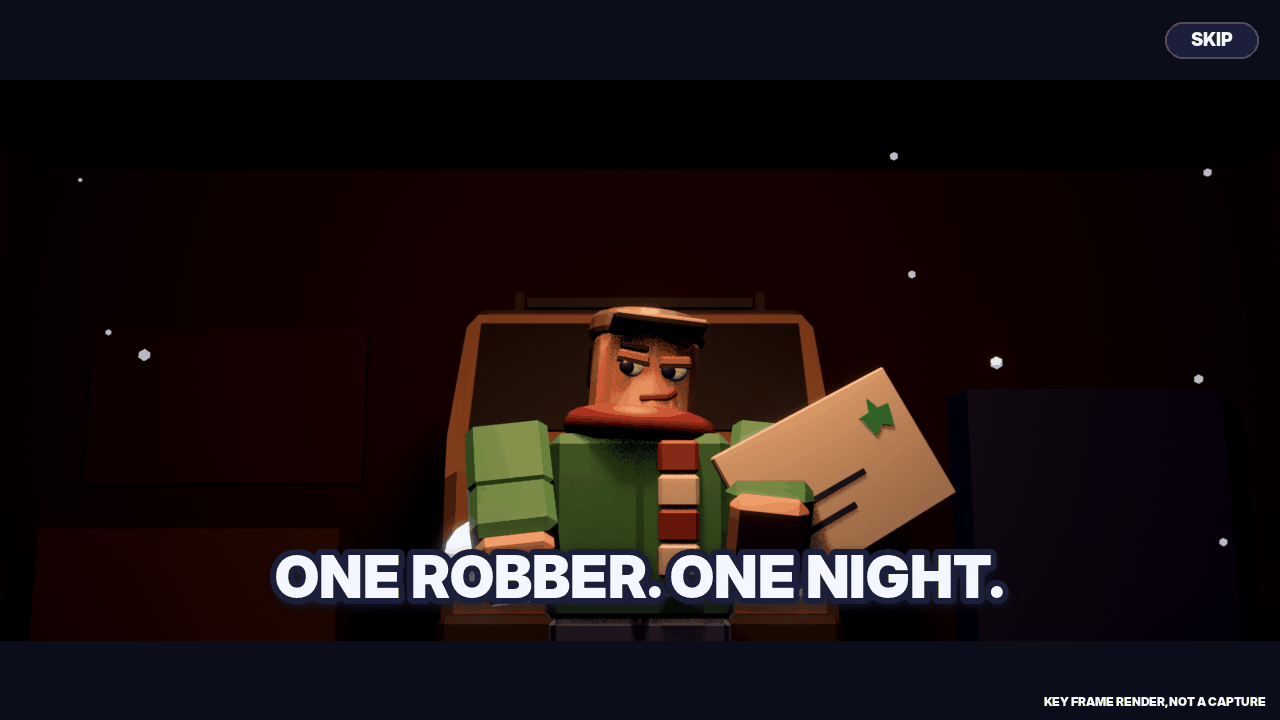
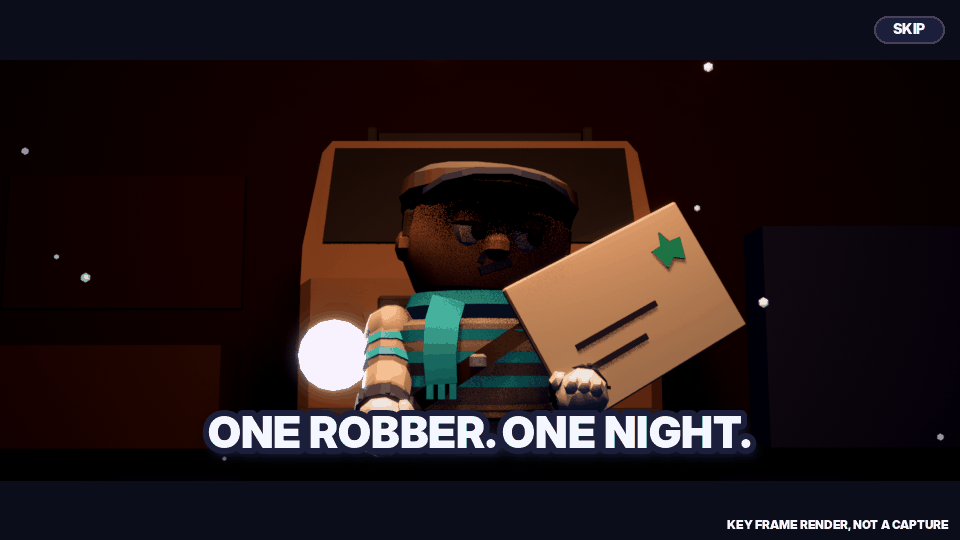
Intro: key frames use the real Rookie (kit FBX posed by the plan, default outfit); garage framing for a 4.6-stud Rookie, smaller letter, work lamp as face key
Claude-Session: https://claude.ai/code/session_01QMSuPfsKra1qjqHBWxnEoR

diff --git a/tools/blender/intro_shots.py b/tools/blender/intro_shots.py
@@ -7,7 +7,7 @@ StreetLamp, Xmas_Tree), lit with the shot's mood in Eevee.
 
 Writes docs/art/intro/shot_N.png (1920 x 1080 x scale; 256 colours + dither, like the marketing concepts) and
 docs/art/intro/contact_sheet.png. Each shot renders in its own Blender process. What is a stand-in here: the
-Rookie (MR.figure: flat cap, long scarf, smug side-eye) until the CHARACTER track's Rookie lands; the aurora
+Rookie is the CHARACTER track's (assets/fbx/Rookie*.fbx, posed by the plan's joint angles, default outfit); the aurora
 curtains, suction beams, headlight beams and snow are code effects in the game (Heist/Cinematic) drawn here as
 emissive meshes; the caption card, the letterbox and the title wordmark are 2D, as in the game.
 """
@@ -290,6 +290,77 @@ def hoardsworth(at, yaw, pose, rig):
         (place_m @ (C4 @ Matrix.Translation(mono))).translation
 
 
+
+ROOKIE_OUTFIT = ("Rookie_Cap_Flat", "Rookie_Scarf_Long", "Rookie_Stripes_Torso", "Rookie_Stripes_LeftArm",
+                 "Rookie_Stripes_RightArm", "Rookie_Gloves_Knit_Left", "Rookie_Gloves_Knit_Right")
+CREW_HUE = "#3DE8FF"     # the template's seat-1 hue (server Heist/Rookie)
+GLOVES = "#2A2D52"       # Config.Rookie.GLOVES.Gloves_Knit
+
+
+def rookie(at, yaw, pose, face="idle", clone=None, dim=0.0):
+    """The CHARACTER track's Rookie (assets/fbx/Rookie*.fbx, the kit manifest's joints and attach points) posed like
+    Heist/Cinematic poses the CharacterKit template: Motor6D.Transform = the IntroPlan joint angles; default outfit
+    (flat cap, long scarf, stripes, knit gloves) in the seat hue; `clone` = a clone's hue (emissive copy)."""
+    man = K.MANIFEST
+
+    def load(fbx, keep):
+        before = set(bpy.data.objects)
+        bpy.ops.import_scene.fbx(filepath=os.path.join(K.FBX, fbx + ".fbx"))
+        out = {}
+        for o in set(bpy.data.objects) - before:
+            base = o.name.split(".")[0]
+            if o.type == "MESH" and keep(base):
+                out[base] = o
+            else:
+                bpy.data.objects.remove(o, do_unlink=True)
+        return out
+
+    body = load("Rookie", lambda n: n != "Rookie_Face_Idle" or face == "idle")
+    extra = load("Rookie_Outfits", lambda n: n in ROOKIE_OUTFIT)
+    if face != "idle" and not clone:
+        extra.update(load("Rookie_Faces", lambda n: n == "Rookie_Face_" + face.capitalize()))
+    place_m = Matrix.Translation(rbv(at)) @ Matrix.Rotation(math.radians(yaw), 4, "Z")
+    joints = {n: v for n, v in man.items() if v.get("model") == "Rookie" and v.get("joint")}
+    world = {}
+
+    def solve(name):
+        if name in world:
+            return world[name]
+        v = joints[name]
+        par = v["joint"].get("parent")
+        o = v["origin"]
+        po = joints[par]["origin"] if par else (0, 0, 0)
+        e = pose.get(v["joint"]["name"], (0, 0, 0))
+        w = (solve(par) if par else Matrix.Identity(4)) @ Matrix.Translation(
+            (o[0] - po[0], o[1] - po[1], o[2] - po[2])) @ r_euler_yxz(*e)
+        world[name] = w
+        return w
+
+    def put(o, W, origin, tint=None):
+        delta = W @ Matrix.Translation(origin).inverted()
+        o.matrix_world = place_m @ (C4 @ delta @ C4I) @ o.matrix_world
+        if clone:
+            m = MR.mat(clone, 0.45, emit=1.1, key=("rkclone", clone, dim))
+            m.node_tree.nodes["Principled BSDF"].inputs["Base Color"].default_value = MR.lin(clone, 0.4 * (1 - dim))
+            o.data.materials.clear()
+            o.data.materials.append(m)
+            o.visible_shadow = False
+        else:
+            K.style(o, LOC, tint)
+
+    for name, o in body.items():
+        if name in joints:
+            put(o, solve(name), joints[name]["origin"])
+        else:   # the idle face: rigid with the head
+            put(o, solve("Rookie_Head"), man[name]["origin"])
+    for name, o in extra.items():
+        v = man[name]
+        a = v.get("attach") or {"part": "Head", "offset": [0, 0, 0]}
+        W = solve("Rookie_" + a["part"]) @ Matrix.Translation(tuple(a["offset"]))
+        tint = GLOVES if "Gloves" in name else (CREW_HUE if v.get("tint") else None)
+        put(o, W, v["origin"], tint)
+
+
 FIG_JOINT = {"RightShoulder": "shR", "RightElbow": "elR", "LeftShoulder": "shL", "LeftElbow": "elL", "Neck": "neck",
              "Waist": "waist", "RightHip": "hipR", "RightKnee": "knR", "LeftHip": "hipL", "LeftKnee": "knL"}
 
@@ -337,7 +408,7 @@ def garage(st, lights_on):
             o = MR.cyl("Pool", 3.2, 3.2, 0.02, pool, None, tuple(rb(hp[0], 0.08, hp[2] + 9)), seg=24, scale=(1, 2.2, 1))
             o.visible_shadow = False
     if lights_on:   # the work lamp over the Rookie comes on with the headlights (Heist/Cinematic)
-        MR.light("POINT", tuple(rb(cx, 9.0, cz + 10)), None, "#FFC890", 2600, size=1.2, shadow=True)
+        MR.light("POINT", tuple(rb(cx, 6.5, cz + 11.5)), None, "#FFC890", 2200, size=1.2, shadow=True)
 
 
 # ------------------------------------------------------------------ effects
@@ -462,18 +533,21 @@ def build(shot, P_):
     if shot["letter"]["visible"] and "letter" in live:
         lo = place("Intro_Letter", tuple(shot["letter"]["pos"]), 200)
         for x in lo:
+            p = x.matrix_world.translation.copy()
+            x.matrix_world = Matrix.Translation(p) @ Matrix.Scale(P_["letterScale"], 4) @ Matrix.Translation(-p) @ \
+                x.matrix_world
+        for x in lo:
             x.matrix_world = Matrix.Translation(x.matrix_world.translation) @ \
                 Matrix.Rotation(shot["letter"]["tilt"] + 0.5, 4, "Y") @ Matrix.Translation(-x.matrix_world.translation) \
                 @ x.matrix_world
     if shot["id"] in ("one", "more", "title"):
         rk = st["rookie"]["at"]
-        pose = MR.POSES["stand"].copy()
-        pose.update(fig_pose(shot["rookie"]))
-        MR.figure("rookie", tuple(rb(rk[0], 0, rk[2])), st["rookie"]["yaw"], pose=pose, expr="smug", look=-1)
+        grin = shot["t"] >= 29.0
+        rookie(rk, st["rookie"]["yaw"], shot["rookie"], face="smug" if grin else "idle")
         for k, c in enumerate(st["clones"]):
             if shot["clones"][k] > 0.5:
-                MR.figure(f"clone{k}", tuple(rb(c[0], 0, c[2])), st["rookie"]["yaw"] + (8 if c[0] < 130 else -8),
-                          clone=MR.CLONE["P1"], dim=0.12 * k, hue=6 * k, pose="stand")
+                rookie(c, st["rookie"]["yaw"] + (8 if c[0] < 130 else -8), shot["rookie"],
+                       clone=MR.hsv_shift(MR.CLONE["P1"], 0.12 * k, 6 * k), dim=0.12 * k)
     if "aurora" in fx:
         aurora(3)
     if "snow" in fx:
